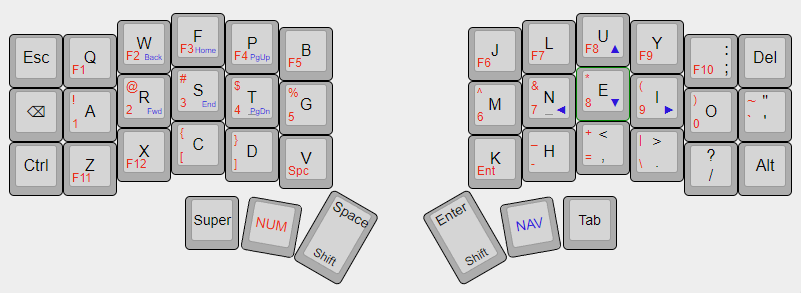
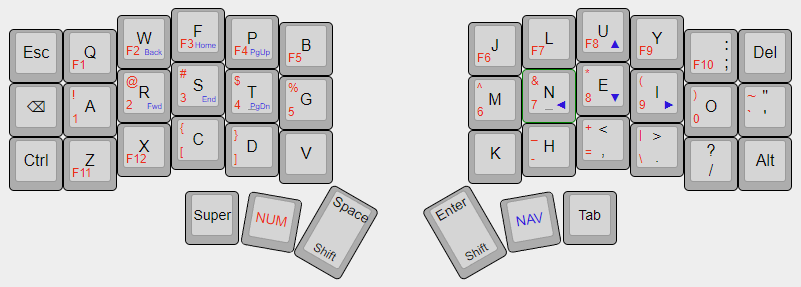
add quick-tap for shift keys

diff --git a/config/README.md b/config/README.md
@@ -36,6 +36,9 @@ switched back to QWERTY with no issues. The modifier
 keys take up mostly familiar positions on the outer
 columns, and stay the same on all layers for easy
 combination with numbers, symbols, and each other.
+All of the modifier buttons can easily be swapped
+around to individual preference, if other positions
+feel more natural.
 
 The primary "innovation" which enables the rest of
 this setup is that the thumb Space and Enter keys
@@ -46,7 +49,10 @@ shifted symbols on any layer with either hand.
 The concept is similar to the dual-thumb-key layers
 in the [Seniply](https://stevep99.github.io/seniply/)
 layout, except the "dual" key is just Shift fulfilling
-its normal role. 
+its normal role. In order to allow for holding the
+spacebar or Enter key when needed,
+[quick-tap](https://zmk.dev/docs/behaviors/hold-tap#quick-tap-ms)
+is enabled.
 
 ### Numbers and Symbols
 
@@ -54,14 +60,14 @@ its normal role.
 ------------------------------------------------------------------------------
 |      | F1  | F2  | F3  | F4  | F5  |   | F6  | F7  | F8  | F9  | F10 |     |
 |      |  1  |  2  |  3  |  4  |  5  |   |  6  |  7  |  8  |  9  |  0  |  `  |
-|      | F11 | F12 |  [  |  ]  | SPC |   | RET |  -  |  =  |  \  |     |     |
+|      | F11 | F12 |  [  |  ]  |     |   |     |  -  |  =  |  \  |     |     |
                    |     |     |     |   |     |     |     |
 ```
 
-Rather than creating a numpad layout for numerals 
+Rather than creating a numpad layout for numerals
 and inventing symbol locations from scratch, we just
 place a number row straight across the home row, and
-use Shift to access the standard associated symbols. 
+use Shift to access the standard associated symbols.
 Shifted symbols can be typed either using the Num
 button on the left along with the right Shift key,
 or by pressing both Num and Shift together with the
@@ -74,12 +80,6 @@ on the bottom row. The backtick goes over the
 quote character on the base layer, but this can be
 moved below the `0` key if you prefer pinky downward
 curls instead of outward shift. 
-
-As a concession to the occasional need to mash the
-Spacebar or Enter keys this layer also holds non
-mod-tap versions of those, near the primary ones.
-This may be obviated by the use of the 'tap-unless-interrupted'
-behavior in ZMK, needs testing. 
 
 ### Navigation layer
 
